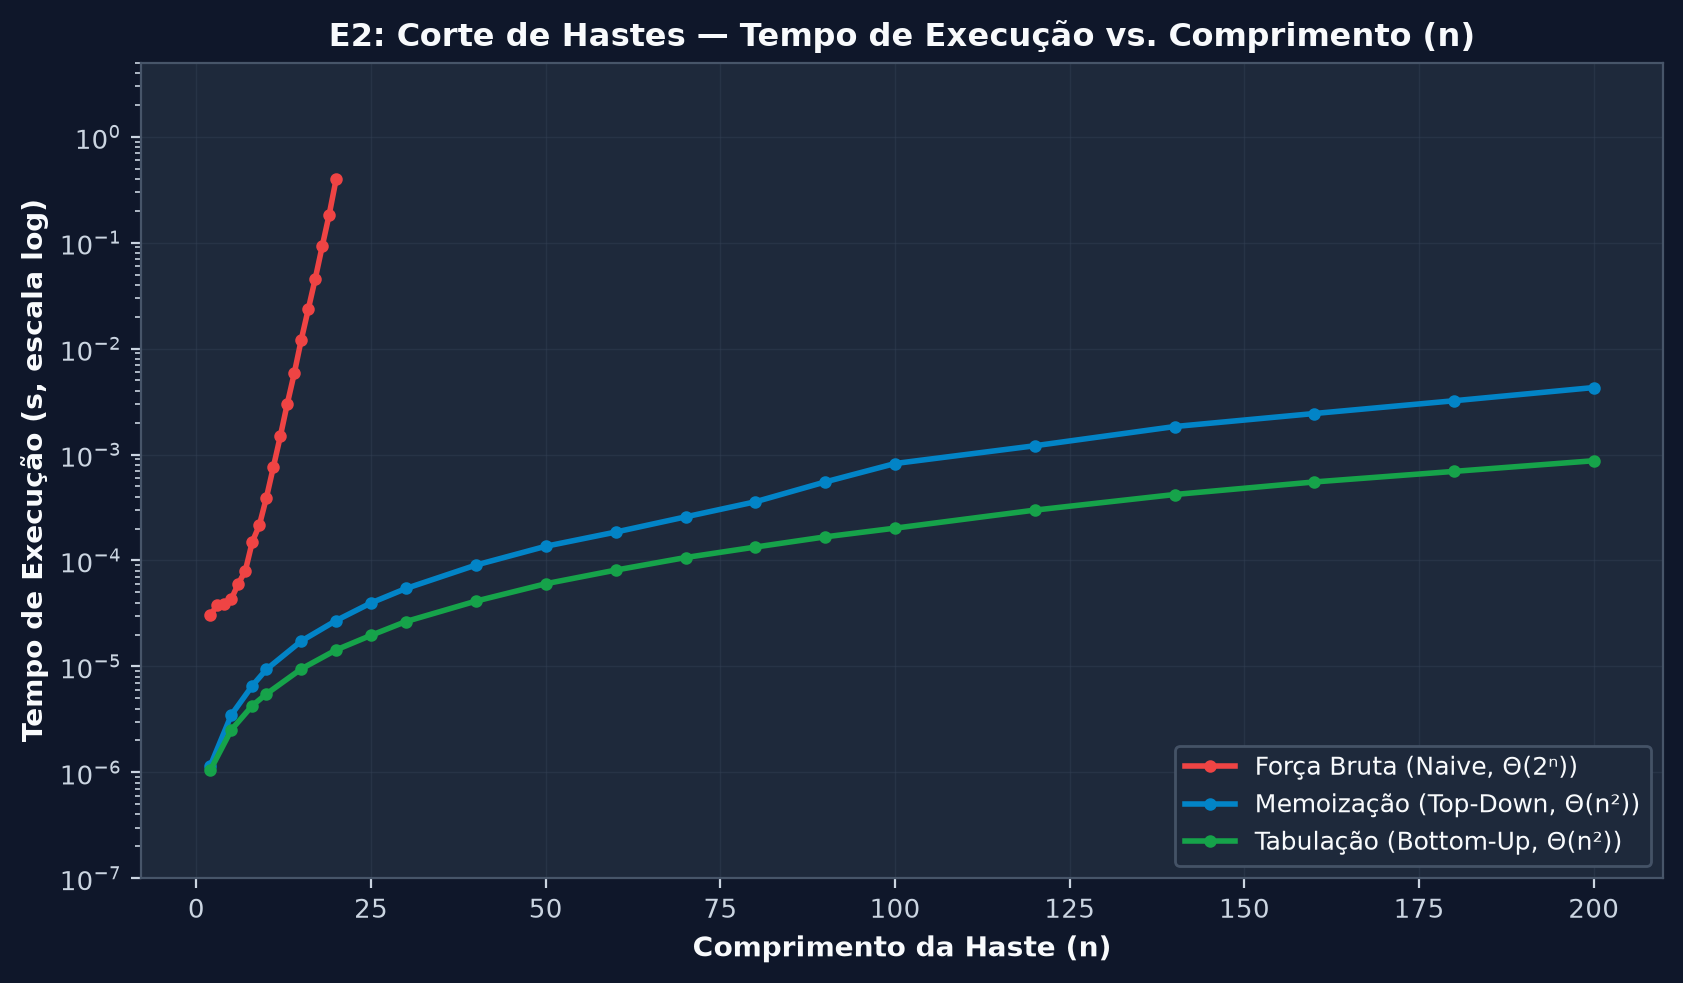
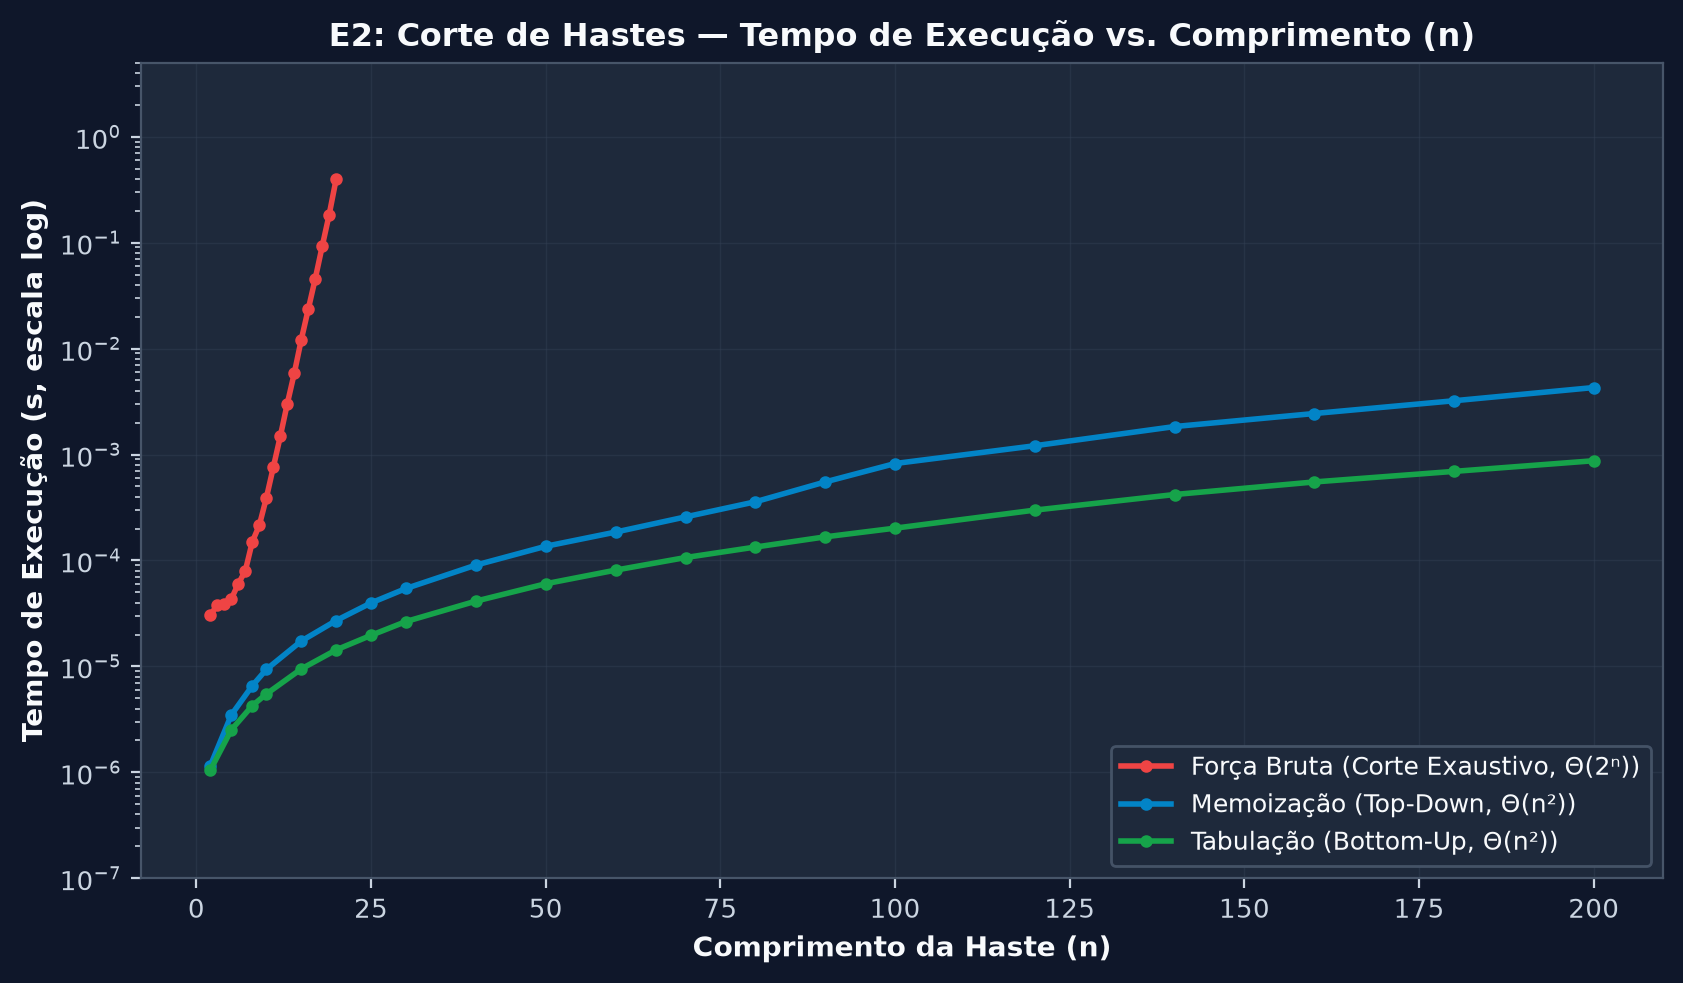
docs: refina ambiente com GPU RTX 3060, folhas de Fibonacci F(n+1) e cota de Catalan Theta

Changed region(s): [[0.6488, 0.763, 0.9887, 0.885]]

diff --git a/src/matrix_chain.py b/src/matrix_chain.py
@@ -26,7 +26,7 @@ def matrix_chain_naive(dims: list[int], counter: CallCounter | None = None,
     Complexidade:
         Tempo: Executa 3^(n-1) chamadas recursivas (ou 2*3^(n-1) - 1, limitadas inferiormente por Omega(2^n)),
                enquanto o espaço combinatório total de parentizações corresponde aos números de
-               Catalan C_{n-1} = Omega(4^n / n^(3/2)) (Cormen §15.2).
+               Catalan C_{n-1} = Theta(4^n / n^(3/2)) (Cormen §15.2).
         Espaço: O(n) na pilha de recursão.
 
     Args:

diff --git a/benchmarks/plot_results.py b/benchmarks/plot_results.py
@@ -309,7 +309,7 @@ def plot_e2_rod_cutting_tempo() -> None:
     fig, ax = plt.subplots(figsize=(8.5, 5.0))
 
     series = [
-        ("naive", "Força Bruta (Naive, Θ(2ⁿ))", PALETTE["naive"]),
+        ("naive", "Força Bruta (Corte Exaustivo, Θ(2ⁿ))", PALETTE["naive"]),
         ("memo", "Memoização (Top-Down, Θ(n²))", PALETTE["memo"]),
         ("bottom_up", "Tabulação (Bottom-Up, Θ(n²))", PALETTE["bottom_up"]),
     ]

diff --git a/benchmarks/run_benchmarks.py b/benchmarks/run_benchmarks.py
@@ -899,6 +899,7 @@ def save_machine_metadata(cpp_info: dict[str, Any] | None = None) -> None:
         "version": platform.version(),
         "machine": platform.machine(),
         "processor": cpu_model,
+        "gpu": "NVIDIA GeForce RTX 3060",
         "python_version": sys.version,
         "python_implementation": platform.python_implementation(),
         "recursion_limit": sys.getrecursionlimit(),

diff --git a/README.md b/README.md
@@ -61,7 +61,7 @@ O trabalho contempla:
 ## 🎯 Objetivos Acadêmicos
 
 ### Análise Teórica vs. Prática
-- **Validação experimental** das ordens de complexidade assintótica assinaladas pelo Cormen: $\Theta(2^n)$ vs. $\Theta(n)$ em Fibonacci, $\Theta(2^n)$ vs. $\Theta(n^2)$ em Rod Cutting, $\Omega(4^n/n^{3/2})$ vs. $\Theta(n^3)$ em Matrix-Chain, $\Theta(m \cdot n)$ em LCS e $O(n \cdot W)$ pseudo-polinomial na Mochila 0/1.
+- **Validação experimental** das ordens de complexidade assintótica assinaladas pelo Cormen: $\Theta(\phi^n)$ vs. $\Theta(n)$ em Fibonacci, $\Theta(2^n)$ vs. $\Theta(n^2)$ em Rod Cutting, $\Theta(4^n/n^{3/2})$ vs. $\Theta(n^3)$ em Matrix-Chain, $\Theta(m \cdot n)$ em LCS e $O(n \cdot W)$ pseudo-polinomial na Mochila 0/1.
 - **Quantificação de overhead de recursão**: impacto da pilha de chamadas (*call stack*), alocação de quadros de ativação e limites de sistema (`sys.getrecursionlimit()`).
 - **Análise fina de constantes ocultas**: investigação de por que algoritmos com a mesma classe assintótica $\Theta(m \cdot n)$ apresentam ordens de grandeza distintas entre linguagens interpretadas e nativas.
 
@@ -91,7 +91,7 @@ $$F(0) = 0, \quad F(1) = 1$$
 $$F(n) = F(n-1) + F(n-2), \quad \forall n \ge 2$$
 
 #### Abordagens Implementadas
-1. **Força Bruta (*Naive*):** Árvore recursiva pura com $2^{n-1}$ folhas. Complexidade: $\Theta(\phi^n) \approx \Theta(1.618^n)$ tempo, $O(n)$ espaço na pilha.
+1. **Força Bruta (*Naive*):** Árvore recursiva pura com exatamente $F(n+1)$ folhas e $2F(n+1) - 1$ chamadas totais. Complexidade: $\Theta(\phi^n) \approx \Theta(1.618^n)$ tempo, $O(n)$ espaço na pilha.
 2. **Top-Down com Memoização:** Recursão guiada com tabela de dispersão (*cache*). Cada subproblema de $0$ a $n$ é computado uma única vez em $2n-1$ chamadas de função. Complexidade: $\Theta(n)$ tempo, $\Theta(n)$ espaço.
 3. **Bottom-Up (Tabulação Linear):** Preenchimento iterativo de vetor unidimensional a partir dos casos-base. Complexidade: $\Theta(n)$ tempo, $\Theta(n)$ espaço.
 4. **Espaço Otimizado $O(1)$:** Mantém apenas as duas variáveis anteriores $a = F(n-2)$ e $b = F(n-1)$. Complexidade: $\Theta(n)$ tempo, $\Theta(1)$ espaço.
@@ -124,7 +124,7 @@ $$r_n = \max_{1 \le i \le n} \left( p[i] + r_{n-i} \right), \quad \forall n \ge 
 Dada uma cadeia de $n$ matrizes $\langle A_1, A_2, \dots, A_n \rangle$ onde $A_i$ possui dimensão $p_{i-1} \times p_i$, determinar a parentização completa que minimiza o número total de multiplicações escalares.
 
 A busca exaustiva é inviável porque a quantidade de parentizações possíveis corresponde aos **Números de Catalan**:
-$$P(n) = C(n-1) = \frac{1}{n}\binom{2n-2}{n-1} \sim \Omega\left(\frac{4^n}{n^{3/2}}\right)$$
+$$P(n) = C(n-1) = \frac{1}{n}\binom{2n-2}{n-1} \sim \Theta\left(\frac{4^n}{n^{3/2}}\right)$$
 Para $n=15$, existem mais de $2{,}6$ milhões de parentizações; para $n=50$, ultrapassa $5{,}1 \times 10^{26}$.
 
 **Recorrência Fundamental:**
@@ -186,7 +186,7 @@ $$V[i, w] = \begin{cases} V[i-1, w] & \text{se } w_i > w \\ \max(V[i-1, w], V[i-
 | **Corte de Hastes** | Top-Down Memoização | $\Theta(n^2)$ | $\Theta(n)$ | Não | Instâncias esparsas |
 | **Corte de Hastes** | Extended Bottom-Up | $\Theta(n^2)$ | $\Theta(n)$ | **Sim** (tabela $s$) | **Produção:** receita ótima e lista exata de pedaços |
 | **Corte de Hastes** | Heurística Gulosa | $O(n \log n)$ | $O(n)$ | Sim | Falha em até 34% dos casos; inadequado sem prova |
-| **Cadeia de Matrizes** | Recursivo Ingênuo | $3^{n-1}$ chamadas recursivas (espaço de Catalan $\Omega(4^n/n^{3/2})$) | $O(n)$ pilha | Não | Inviável para $n > 12$ devido às $3^{n-1}$ chamadas recursivas |
+| **Cadeia de Matrizes** | Recursivo Ingênuo | $3^{n-1}$ chamadas recursivas (espaço de Catalan $\Theta(4^n/n^{3/2})$) | $O(n)$ pilha | Não | Inviável para $n > 12$ devido às $3^{n-1}$ chamadas recursivas |
 | **Cadeia de Matrizes** | Bottom-Up Diagonais | $\Theta(n^3)$ | $\Theta(n^2)$ | **Sim** (tabela $s$) | **Padrão ouro:** ordem ótima de parentização |
 | **LCS** | Recursivo Ingênuo | $O(2^{m+n})$ | $O(m+n)$ pilha | Não | Apenas entradas minúsculas ($< 15$ caracteres) |
 | **LCS** | Tabela Completa (Cormen) | $\Theta(m \cdot n)$ | $\Theta(m \cdot n)$ | **Sim** (matriz $b$) | Quando a subsequência de texto ou alinhamento é necessária |
@@ -337,7 +337,7 @@ O projeto conta com automação completa via `Makefile` para instalação, compi
 
 ## 🔧 Ambiente Experimental e Metodologia
 
-* **Ambiente de Teste:** Linux x86_64 (WSL2, kernel 6.18.54), Processador AMD Ryzen 5 4600G with Radeon Graphics, CPython 3.12.3, GCC 13.3.0 com `-O3 -std=c++17`.
+* **Ambiente de Teste:** Linux x86_64 (WSL2, kernel 6.18.54), CPU AMD Ryzen 5 4600G (6C/12T), GPU dedicada NVIDIA GeForce RTX 3060, CPython 3.12.3, GCC 13.3.0 com `-O3 -std=c++17`.
 * **Medição de Tempo:** `time.perf_counter()` de alta precisão, sem concorrência com rastreamento de memória.
 * **Média Aparada (*Trimmed Mean*):** 5 repetições por ponto amostral; descarte dos extremos (mínimo e máximo) e média aritmética sobre as 3 repetições centrais.
 * **Batching Adaptativo:** Para durações $< 200\,\mu s$, laço em lote de até 100 iterações com amostragem piloto para superar o ruído do timer do sistema operacional.
@@ -427,7 +427,7 @@ O projeto conta com automação completa via `Makefile` para instalação, compi
   <img src="docs/figures/e7_matrix_chain_operacoes.png" width="48%" alt="E7 Catalan e Operações"/>
 </p>
 
-* **Explosão Combinatória:** Enquanto o espaço de busca de todas as parentizações possíveis cresce segundo os números de Catalan $C_{n-1} = \Omega(4^n / n^{3/2})$ e a recursão ingênua efetua $3^{n-1}$ chamadas recursivas redundantes, a Programação Dinâmica Bottom-Up resolve a instância de $n=50$ matrizes em **3,13 ms** (e Memoização em **11,5 ms**), poupando bilhões de multiplicações escalares redundantes.
+* **Explosão Combinatória:** Enquanto o espaço de busca de todas as parentizações possíveis cresce segundo os números de Catalan $C_{n-1} = \Theta(4^n / n^{3/2})$ e a recursão ingênua efetua $3^{n-1}$ chamadas recursivas redundantes, a Programação Dinâmica Bottom-Up resolve a instância de $n=50$ matrizes em **3,13 ms** (e Memoização em **11,5 ms**), poupando bilhões de multiplicações escalares redundantes.
 
 ---
 
